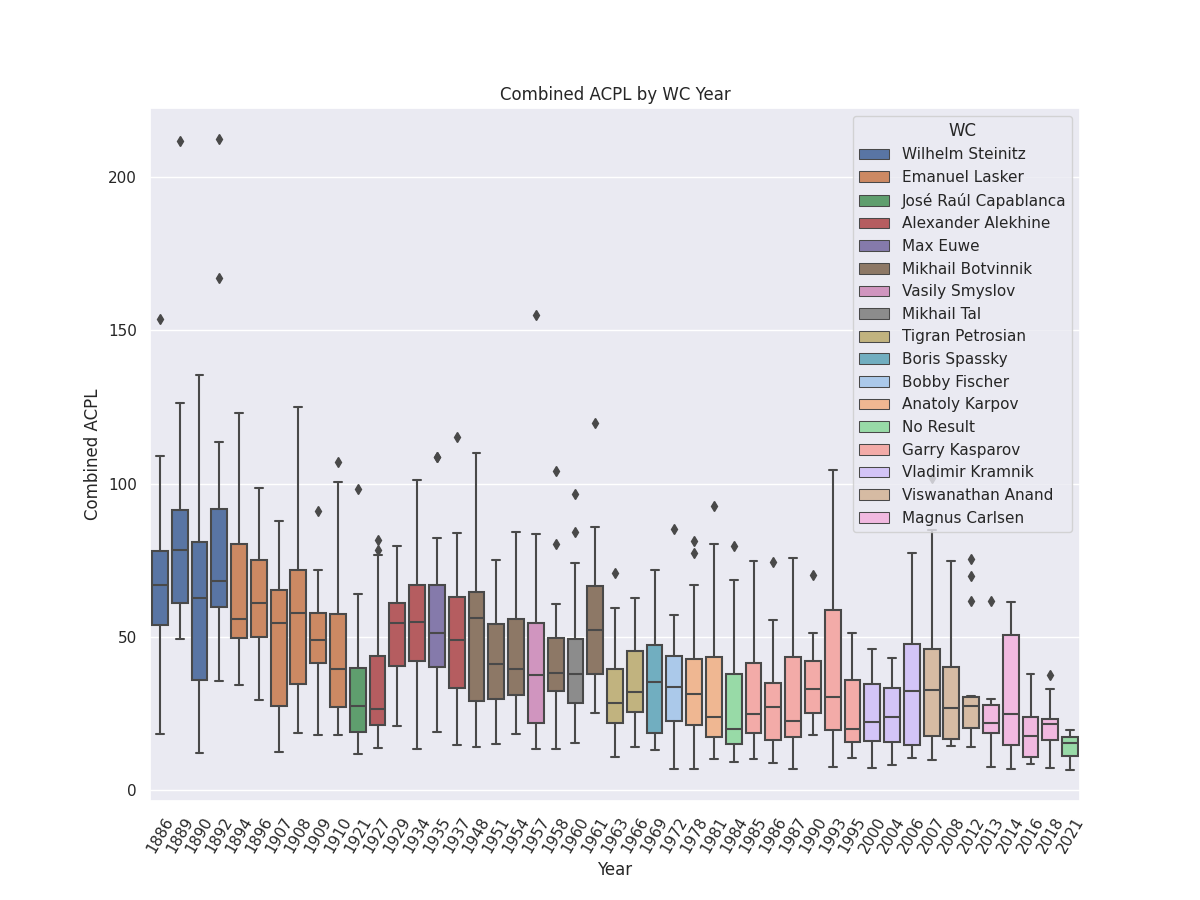
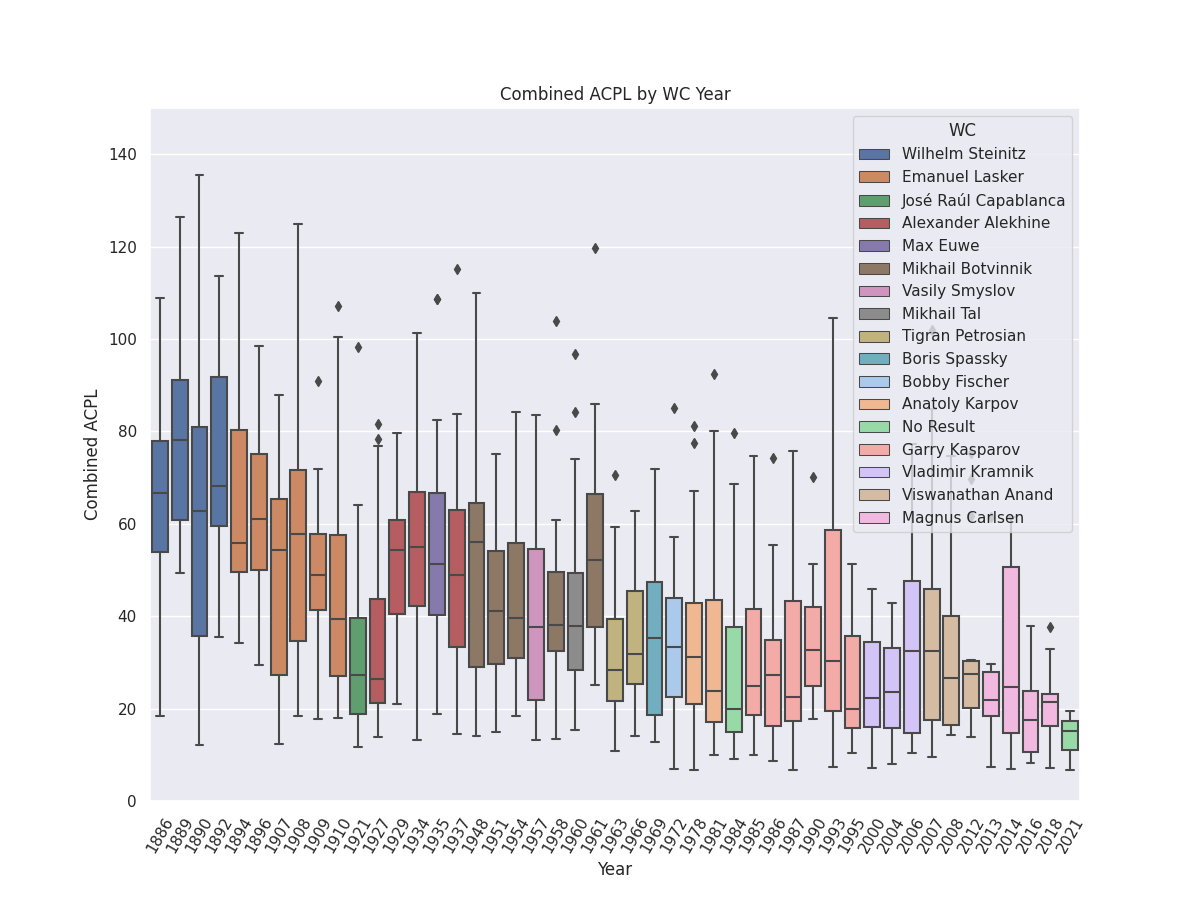
adjust axis

diff --git a/visualize.py b/visualize.py
@@ -92,7 +92,7 @@ pd.options.display.width = 0
 
 palette = {WC: color for (WC, color) in zip(df.WC.unique(), sns.color_palette() + sns.color_palette("pastel"))}
 print(df)
-
+axes.set_ylim(0, 150)
 sns.boxplot(x='Year', y='Combined ACPL', data=df, ax=axes, hue="WC", palette=palette, dodge=False)
 axes.set_title('Combined ACPL by WC Year')
 axes.set_xticklabels(axes.get_xticklabels(), rotation=60)
